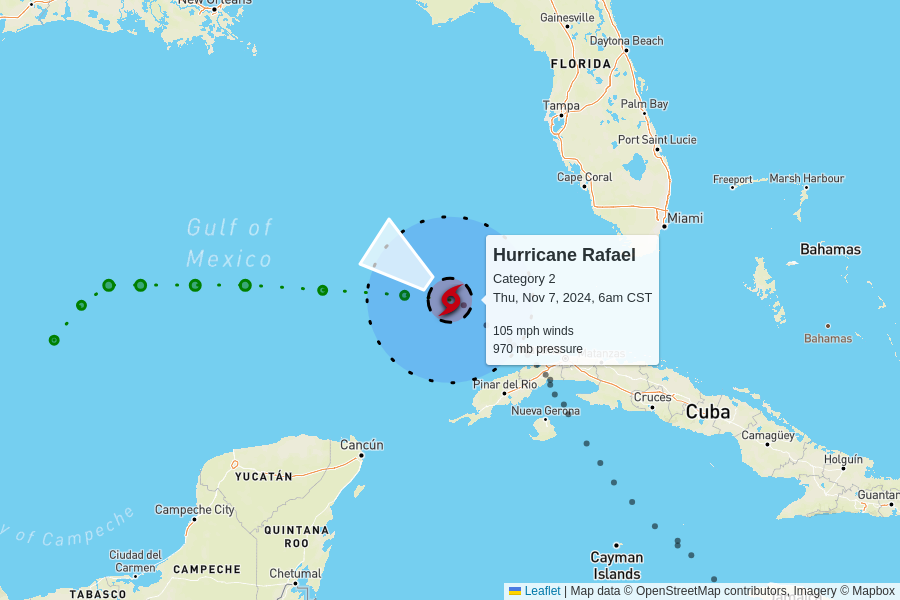
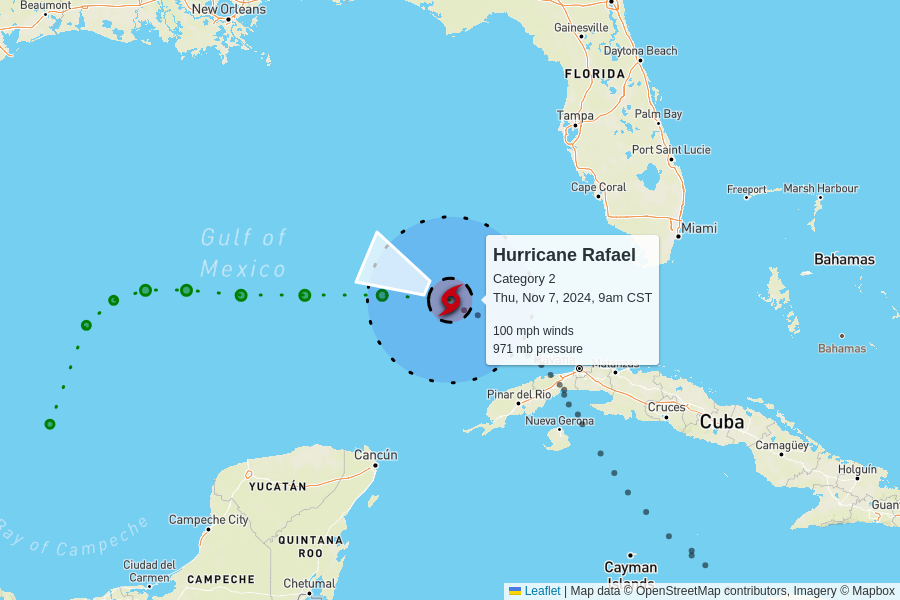
automatic update

diff --git a/docs/index.html b/docs/index.html
@@ -102,7 +102,7 @@
         <td colspan="6" class="storm category-2" >
           <h2>
             Hurricane Rafael - Category 2
-            <p class="updated">last updated <span data-time>2024-11-07T12:00:00.000Z</span></p>
+            <p class="updated">last updated <span data-time>2024-11-07T15:00:00.000Z</span></p>
           </h2>
         </td>
       </tr>
@@ -117,12 +117,12 @@
       </tr>
       <tr>
         <td class="spacer"></td>
-        <td>105 mph<br>0 mph since last update</td>
-        <td>970 mb<br>+1 mb since last update</td>
+        <td>100 mph<br>-5 mph since last update</td>
+        <td>971 mb<br>+1 mb since last update</td>
         <td>
-          9 mph to the northwest
+          9 mph to the west-northwest
           <br/>
-          <span style="display: inline-block; font-size: 1.5em; transform: rotate(305deg);">↑</span>
+          <span style="display: inline-block; font-size: 1.5em; transform: rotate(295deg);">↑</span>
         </td>
         <td><a href="https://raw.githubusercontent.com/mgwalker/atlantic-hurricanes/main/data/csv/AL182024.csv">AL182024.csv</a></td>
         <td><a href="https://www.nhc.noaa.gov/archive/2024/RAFAEL.shtml?">NHC advisories</a></td>
